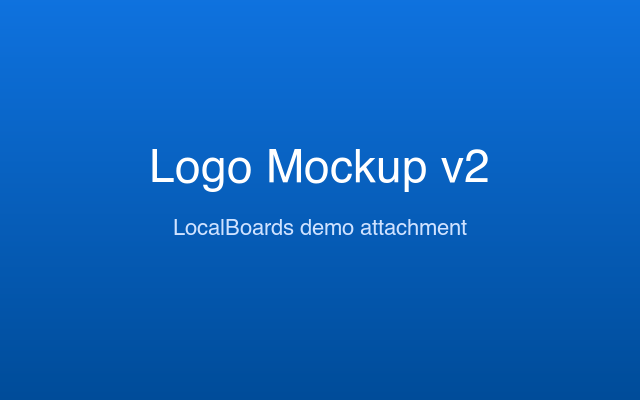
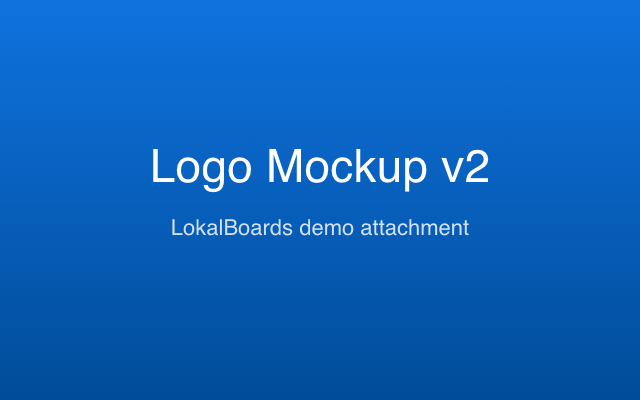
v0.24.0

diff --git a/app/assets/css/main.css b/app/assets/css/main.css
@@ -2,15 +2,19 @@
 
 @theme {
     --color-*: initial;
-    /* Two brand colours with distinct jobs:
-     * primary   — the action colour: buttons, links, focus, selection.
-     * secondary — completion and positive state: done cards, checkboxes,
-     *             "live" indicators.
-     * primary-hover is the darker/lighter shade of primary used on hover — the
-     * job secondary used to do, which is why it had to be another blue. */
+    /* One brand colour with two shades. `primary` is the action colour —
+     * buttons, links, focus, selection — and everything the UI marks out: a
+     * completed card, a ticked checkbox, a live indicator, an unread dot.
+     * `primary-hover` is its darker (light theme) or lighter (dark theme)
+     * shade, used for hover and for entries that should read as heavier than
+     * routine ones.
+     *
+     * There used to be a green `secondary` for "done" states. It earned its own
+     * hue nowhere — every place it appeared already said what it meant by other
+     * means (a tick, a filled circle, a count reaching its total) — so it added
+     * a competing accent without adding information. */
     --color-primary: #0066cc;
     --color-primary-hover: #004c99;
-    --color-secondary: #12784f;
     --color-white: #ffffff;
     --color-gray: #4e4e52;
     --color-slate: #f5f5f7;
@@ -40,7 +44,6 @@ body {
         :root {
             --color-primary: #0f72de;
             --color-primary-hover: #1c84ec;
-            --color-secondary: #17996a;
             --color-gray: #aeaeb2;
             --color-slate: #2c2c2e;
             --color-code-bg: #161618;
@@ -168,14 +171,19 @@ body {
  * wins over Tailwind's (layered) utilities; call sites can still override an
  * individual property with a Tailwind `!` utility (e.g. `!w-auto`, `!pr-12`).
  * Change the appearance here and it updates everywhere: InputField.vue, the
- * rich-text editor (.tiptap, below) and any element carrying .form-control. */
+ * rich-text editor (.tiptap, below) and any element carrying .form-control.
+ *
+ * At rest the fill and border are mixed from `--color-gray`, not the brand
+ * colour: a field is a place to type, not something the UI is pointing at, and
+ * a tinted one made every form read as faintly blue. The brand colour appears
+ * on `:focus` only, where it means "this is the field you are in". */
 .form-control {
     display: block;
     width: 100%;
     padding: 0.5rem 0.875rem;
     border-radius: 0.625rem;
-    border: 1px solid color-mix(in oklab, var(--color-primary) 22%, transparent);
-    background-color: color-mix(in oklab, var(--color-primary) 6%, var(--color-white));
+    border: 1px solid color-mix(in oklab, var(--color-gray) 22%, transparent);
+    background-color: color-mix(in oklab, var(--color-gray) 6%, var(--color-white));
     color: var(--color-dark);
     outline: 0;
 }
@@ -215,8 +223,8 @@ select.form-control,
 /* The rich-text editor shares the same skin as the form controls. */
 .tiptap {
     padding: 1.5rem;
-    border: 1px solid color-mix(in oklab, var(--color-primary) 22%, transparent);
-    background-color: color-mix(in oklab, var(--color-primary) 6%, var(--color-white));
+    border: 1px solid color-mix(in oklab, var(--color-gray) 22%, transparent);
+    background-color: color-mix(in oklab, var(--color-gray) 6%, var(--color-white));
     color: var(--color-dark);
     border-radius: var(--radius-xl);
     outline: 0 !important;
@@ -307,7 +315,7 @@ select.form-control,
     display: none;
 }
 /* Task-list checkboxes: a small rounded-square checkbox (not a round radio) that
- * fills with the secondary colour and shows a check when ticked — the same
+ * fills with the primary colour and shows a check when ticked — the same
  * "this is done" colour as a card's status tick, which is the same idea at a
  * larger size. */
 .tiptap ul[data-type="taskList"] input[type="checkbox"],
@@ -329,8 +337,8 @@ select.form-control,
 }
 .tiptap ul[data-type="taskList"] input[type="checkbox"]:checked,
 .wysiwyg-wrapper ul[data-type="taskList"] input[type="checkbox"]:checked {
-    background-color: var(--color-secondary);
-    border-color: var(--color-secondary);
+    background-color: var(--color-primary);
+    border-color: var(--color-primary);
 }
 .tiptap ul[data-type="taskList"] input[type="checkbox"]:checked::after,
 .wysiwyg-wrapper ul[data-type="taskList"] input[type="checkbox"]:checked::after {
@@ -413,7 +421,7 @@ select.form-control,
 }
 .tiptap a:hover,
 .wysiwyg-wrapper a:hover {
-    color: var(--color-secondary);
+    color: var(--color-primary-hover);
     cursor: pointer;
 }
 .tiptap img,

diff --git a/app/components/ImageWindow.vue b/app/components/ImageWindow.vue
@@ -2,9 +2,14 @@
     <!-- Teleported to <body> so its fixed positioning is relative to the
          viewport even when rendered inside a transformed modal. -->
     <Teleport to="body">
+        <!-- z-50, one step above ModalWindow's z-40. The lightbox is always
+             opened *from* something — usually a card modal — so it has to sit
+             above it. Sharing z-40 left the two tied, and Vue teleports these
+             roots ahead of `#__nuxt` in <body>, so the tie broke the wrong way:
+             an image opened from a card rendered behind that card. -->
         <div
             v-show="visible"
-            class="fixed inset-0 z-40 flex items-center justify-center"
+            class="fixed inset-0 z-50 flex items-center justify-center"
         >
             <div
                 class="absolute inset-0 bg-black/60 transition-opacity duration-300 ease-out"
@@ -25,7 +30,21 @@
                 />
                 <slot />
             </div>
-            <div v-if="!hideClose" class="absolute top-4 right-4 z-30">
+            <!-- The close button sits outside the element that animates, so
+                 unlike ModalWindow's — which rides along inside its card — it
+                 has to be faded in on its own, or it snaps into place while the
+                 image is still zooming. It follows `shown` (the backdrop's own
+                 signal) and borrows the image's easing and duration, so the
+                 three arrive as one movement. -->
+            <div
+                v-if="!hideClose"
+                class="absolute top-4 right-4 z-30 transition-[opacity,scale]"
+                :style="{
+                    transitionDuration: `${DURATION}ms`,
+                    transitionTimingFunction: EASE,
+                }"
+                :class="shown ? 'scale-100 opacity-100' : 'scale-90 opacity-0'"
+            >
                 <button
                     type="button"
                     @click="closeModal"

diff --git a/app/components/GlobalSearch.vue b/app/components/GlobalSearch.vue
@@ -106,7 +106,7 @@
                                     </span>
                                     <span
                                         v-if="board.memberCount > board.members.length"
-                                        class="flex size-6 items-center justify-center rounded-full bg-secondary text-xs font-medium text-white ring-2 ring-white dark:ring-slate"
+                                        class="flex size-6 items-center justify-center rounded-full bg-primary text-xs font-medium text-white ring-2 ring-white dark:ring-slate"
                                         >+{{
                                             board.memberCount -
                                             board.members.length
@@ -134,7 +134,7 @@
                                         class="flex size-6 shrink-0 grow-0 items-center justify-center rounded-full"
                                         :class="
                                             card.status
-                                                ? 'border-2 border-secondary bg-secondary text-white'
+                                                ? 'border-2 border-primary bg-primary text-white'
                                                 : 'border-2 border-gray'
                                         "
                                     >
@@ -164,7 +164,7 @@
                                         v-if="card.checklist?.total"
                                         class="flex shrink-0 gap-x-1.5"
                                         :class="{
-                                            'text-secondary':
+                                            'text-primary':
                                                 card.checklist.done ===
                                                 card.checklist.total,
                                         }"

diff --git a/app/components/NotificationBell.vue b/app/components/NotificationBell.vue
@@ -3,11 +3,11 @@
         <div ref="bellWrapper" class="relative">
             <div
                 :class="{ 'opacity-0': unreadCount === 0 }"
-                class="absolute top-0 right-0 size-2 transform translate-x-1/2 -translate-y-1/2 rounded-full bg-secondary pointer-events-none z-20"
+                class="absolute top-0 right-0 size-2 transform translate-x-1/2 -translate-y-1/2 rounded-full bg-primary pointer-events-none z-20"
             ></div>
             <div
                 :class="{ 'opacity-0': unreadCount === 0 }"
-                class="absolute top-0 right-0 size-2 transform translate-x-1/2 -translate-y-1/2 animate-ping rounded-full bg-secondary pointer-events-none z-20"
+                class="absolute top-0 right-0 size-2 transform translate-x-1/2 -translate-y-1/2 animate-ping rounded-full bg-primary pointer-events-none z-20"
             ></div>
             <button
                 @click="toggleNotifications"
@@ -89,7 +89,7 @@
                         <!-- Unread marker. -->
                         <span
                             v-if="!notification.isRead"
-                            class="mt-3.5 size-2 shrink-0 rounded-full bg-secondary"
+                            class="mt-3.5 size-2 shrink-0 rounded-full bg-primary"
                             :aria-label="$t('unread')"
                         />
                     </div>

diff --git a/app/components/InputCheckbox.vue b/app/components/InputCheckbox.vue
@@ -5,7 +5,7 @@
                 type="checkbox"
                 :required="props.required"
                 v-model="data"
-                class="col-start-1 row-start-1 appearance-none rounded-sm border border-gray/33 bg-white checked:border-secondary checked:bg-secondary indeterminate:border-secondary indeterminate:bg-secondary focus-visible:outline-2 focus-visible:outline-offset-2 focus-visible:outline-secondary disabled:border-gray/20 disabled:bg-gray/10 disabled:checked:bg-gray/10 forced-colors:appearance-auto"
+                class="col-start-1 row-start-1 appearance-none rounded-sm border border-gray/33 bg-white checked:border-primary checked:bg-primary indeterminate:border-primary indeterminate:bg-primary focus-visible:outline-2 focus-visible:outline-offset-2 focus-visible:outline-primary disabled:border-gray/20 disabled:bg-gray/10 disabled:checked:bg-gray/10 forced-colors:appearance-auto"
             />
             <svg
                 viewBox="0 0 14 14"

diff --git a/app/pages/board/[id].vue b/app/pages/board/[id].vue
@@ -22,7 +22,7 @@
             <div class="container">
                 <div
                     v-if="accessError"
-                    class="bg-secondary text-white text-center py-3 px-6 rounded-lg"
+                    class="bg-primary text-white text-center py-3 px-6 rounded-lg"
                 >
                     {{ accessError }}
                 </div>
@@ -946,7 +946,8 @@ const handleCommentCountUpdated = ({ cardId, commentCount, comments }) => {
 };
 
 // Menu item styling, matching the dashboard's action menu. Destructive entries
-// (delete, leave) use the secondary colour so they don't read as routine.
+// (delete, leave) take the deeper primary-hover shade, so they read as heavier
+// than the routine ones without introducing a second hue.
 const menuItemClass =
     "flex w-full items-center gap-2 rounded-lg px-3 py-2 text-left text-sm text-dark hover:bg-primary/10 hover:text-primary dark:text-white";
 const menuItemDestructiveClass =

diff --git a/app/components/CardTile.vue b/app/components/CardTile.vue
@@ -11,7 +11,7 @@
             <div
                 class="w-6 h-6 rounded-full flex justify-center items-center shrink-0 grow-0"
                 :class="{
-                    'border-2 border-secondary bg-secondary text-white':
+                    'border-2 border-primary bg-primary text-white':
                         props.card.status,
                     'border-2 border-gray': !props.card.status,
                 }"
@@ -50,7 +50,7 @@
             <div
                 v-if="checklist.total"
                 class="flex gap-x-1.5 shrink-0"
-                :class="{ 'text-secondary': checklist.done === checklist.total }"
+                :class="{ 'text-primary': checklist.done === checklist.total }"
             >
                 <ListChecks class="size-4 shrink-0 grow-0" />
                 <div class="shrink-0 grow-0">

diff --git a/app/app.vue b/app/app.vue
@@ -41,7 +41,6 @@ useHead({
               :root {
                 --color-primary: ${config.colorPrimary};
                 --color-primary-hover: ${config.colorPrimaryHover};
-                --color-secondary: ${config.colorSecondary};
                 --color-white: ${config.colorWhite};
                 --color-gray: ${config.colorGray};
                 --color-slate: ${config.colorSlate};
@@ -52,7 +51,6 @@ useHead({
                 :root {
                   --color-primary: ${config.colorPrimaryDark};
                   --color-primary-hover: ${config.colorPrimaryHoverDark};
-                  --color-secondary: ${config.colorSecondaryDark};
                   --color-gray: ${config.colorGrayDark};
                   --color-slate: ${config.colorSlateDark};
                   --color-dark: ${config.colorDarkDark};

diff --git a/app/components/InputImage.vue b/app/components/InputImage.vue
@@ -12,7 +12,7 @@
                     @dragleave.prevent="handleDragLeave"
                     @drop.prevent="handleDrop"
                     :class="{
-                        'border-2 border-dashed border-secondary': isDragging,
+                        'border-2 border-dashed border-primary': isDragging,
                         'cursor-pointer': !data,
                     }"
                 >
@@ -57,7 +57,7 @@
                         type="button"
                         class="relative aspect-square w-full rounded-lg overflow-clip"
                         :class="{
-                            'border-2 border-secondary': data === image,
+                            'border-2 border-primary': data === image,
                         }"
                         @click="data = image"
                     >

diff --git a/app/components/ToastHolder.vue b/app/components/ToastHolder.vue
@@ -8,10 +8,10 @@
                 <div class="w-3 shrink-0 grow-0 pt-1.5">
                     <span class="relative flex size-3">
                         <span
-                            class="absolute inline-flex h-full w-full animate-ping rounded-full opacity-75 bg-secondary"
+                            class="absolute inline-flex h-full w-full animate-ping rounded-full opacity-75 bg-primary"
                         ></span>
                         <span
-                            class="relative inline-flex size-3 rounded-full bg-secondary"
+                            class="relative inline-flex size-3 rounded-full bg-primary"
                         ></span>
                     </span>
                 </div>

diff --git a/app/components/InputColor.vue b/app/components/InputColor.vue
@@ -115,8 +115,17 @@ const onCustomInput = (event: Event) => {
        selecting a swatch doesn't change its size and the row never reflows. */
     border: 2px solid transparent;
 }
+/* The one selection marker that can't be the primary colour: the primary
+   colour is itself one of the swatches, so a primary ring would vanish on
+   exactly the swatch it needs to mark. A neutral ring in the page's own
+   foreground stays visible against every colour, including the user's. */
 .swatch-active {
-    border-color: var(--color-secondary);
+    border-color: var(--color-dark);
+}
+@media (prefers-color-scheme: dark) {
+    .swatch-active {
+        border-color: var(--color-white);
+    }
 }
 .swatch-face {
     display: block;

diff --git a/nuxt.config.ts b/nuxt.config.ts
@@ -59,9 +59,6 @@ export default defineNuxtConfig({
         process.env.NUXT_PUBLIC_COLOR_PRIMARY_HOVER || "#004C99",
       colorPrimaryHoverDark:
         process.env.NUXT_PUBLIC_COLOR_PRIMARY_HOVER_DARK || "#1C84EC",
-      colorSecondary: process.env.NUXT_PUBLIC_COLOR_SECONDARY || "#12784F",
-      colorSecondaryDark:
-        process.env.NUXT_PUBLIC_COLOR_SECONDARY_DARK || "#17996A",
       colorWhite: process.env.NUXT_PUBLIC_COLOR_WHITE || "#ffffff",
       colorGray: process.env.NUXT_PUBLIC_COLOR_GRAY || "#4E4E52",
       colorGrayDark: process.env.NUXT_PUBLIC_COLOR_GRAY_DARK || "#AEAEB2",
